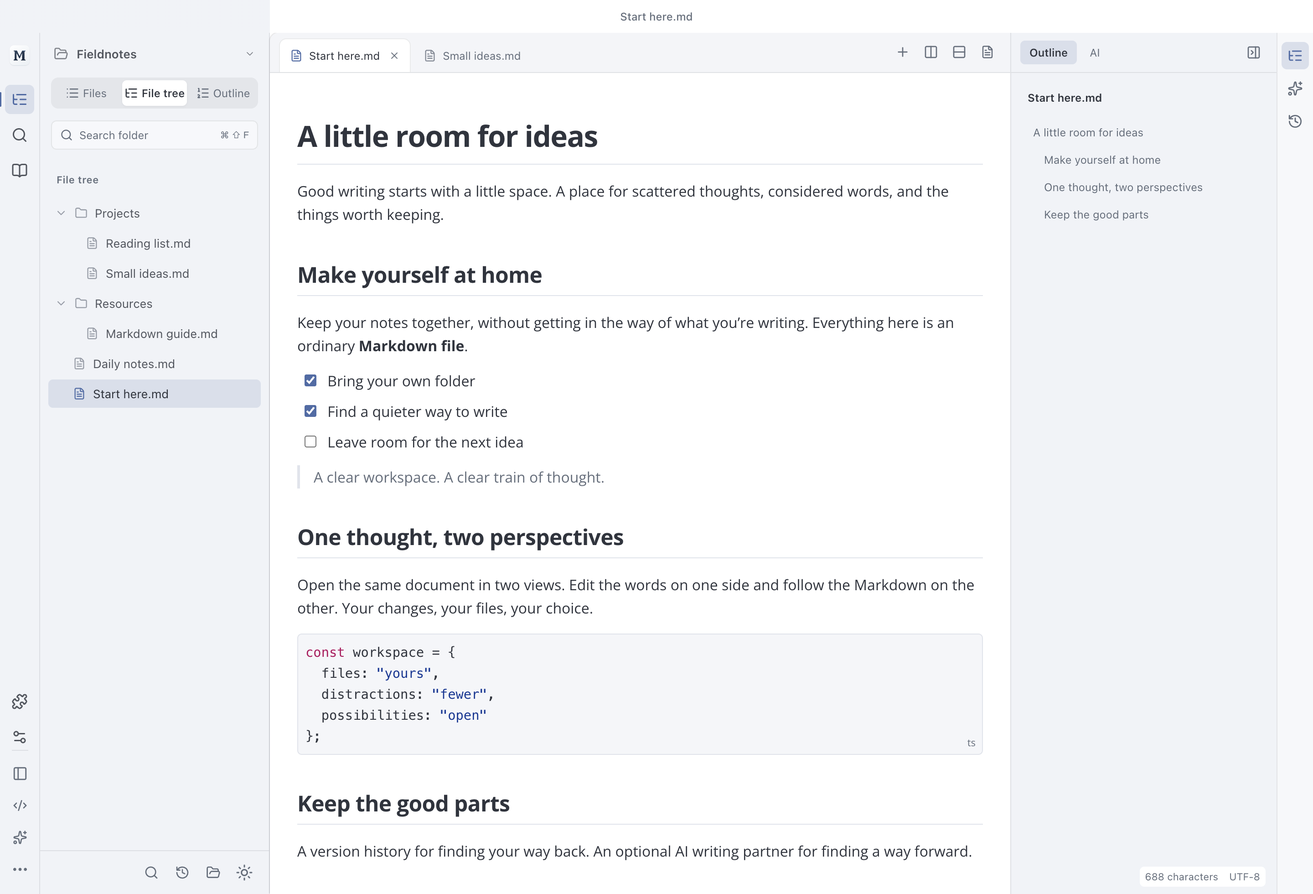
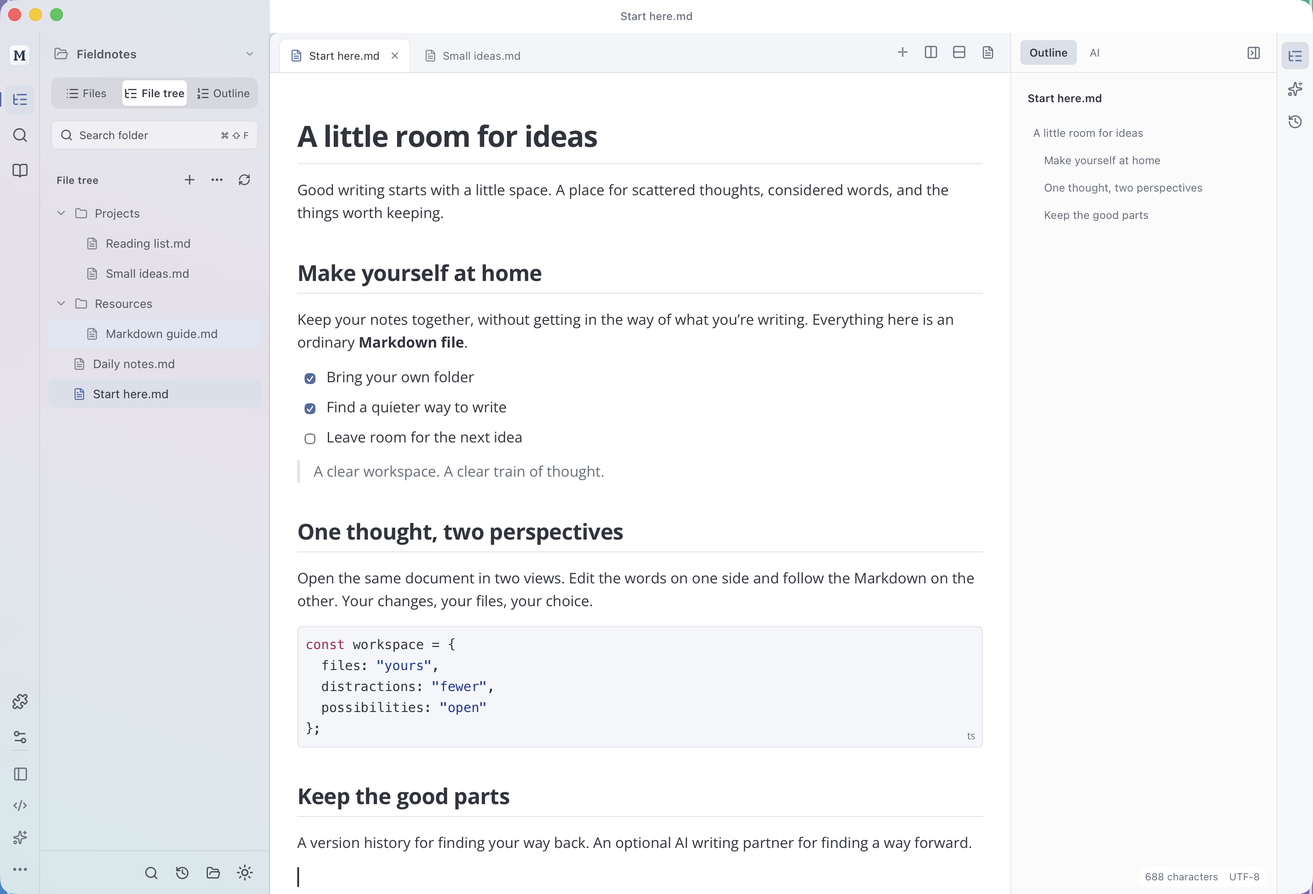
release: prepare 0.26.1 with real native glass captures [skip ci]

diff --git a/src/writingWorkspace.css b/src/writingWorkspace.css
@@ -111,7 +111,7 @@
    hides its backdrop. Keep the opaque fallback on hosts without that material. */
 :root[data-window-material=macos] { --chrome-glass:color-mix(in srgb,var(--sidebar) 24%,transparent); }
 :root[data-window-material=macos],:root[data-window-material=macos] body { background:transparent; }
-:root[data-window-material=macos] :is(.sidebar,.workspace-ribbon) { -webkit-backdrop-filter:none; backdrop-filter:none; }
+:root[data-window-material=macos] :is(.sidebar,.workspace-ribbon) { --muted:color-mix(in srgb,var(--ink) 88%,var(--sidebar)); -webkit-backdrop-filter:none; backdrop-filter:none; }
 @media(max-width:1100px) { .right-tools { width:264px; } .right-tool-rail { width:36px; padding-left:2px; padding-right:2px; } }
 @media(max-width:820px) { .writing-content.with-tools { flex-wrap:wrap; } .with-tools .editor-workspace { flex-basis:calc(100% - 36px); } .right-tools { order:3; width:100%; max-width:100%; min-width:0; height:40%; min-height:180px; border-left:0; border-top:1px solid var(--chrome-line); } .right-tool-rail { order:2; } .right-tools .ai-review-panel { flex-basis:auto; min-height:0; } .right-outline { padding-top:12px; } }
 @media(max-width:760px) {

diff --git a/design/presentation/hero.html b/design/presentation/hero.html
@@ -10,6 +10,6 @@
   <div class="brand"><img src="../icon.svg" alt="">Open Markdown Lane</div>
   <div class="platform">macOS · Windows · Linux</div>
   <section class="copy"><h1>A clearer space for your words.</h1><p>Live Markdown. Local files. Optional AI.</p></section>
-  <div class="window"><img src="../../docs/images/workspace-light.png" alt="Open Markdown Lane 0.26.0 editing an English document with the file tree, tabs and outline open."></div>
+  <div class="window"><img src="../../docs/images/workspace-light.png" alt="Open Markdown Lane 0.26.1 editing an English document with the file tree, tabs and outline open."></div>
 </main>
 </html>

diff --git a/README.md b/README.md
@@ -16,15 +16,15 @@
 >
 > If you can afford it, please **[buy Typora](https://store.typora.io/)** and support its official developers. Visit **[typora.io](https://typora.io/)** for the official product and support.
 
-![Open Markdown Lane 0.26.0 workspace](docs/images/hero.png)
+![Open Markdown Lane 0.26.1 workspace](docs/images/hero.png)
 
 [Light workspace](docs/images/workspace-light.png) · [Dark workspace](docs/images/workspace-dark.png) · [Shared document views](docs/images/shared-views.png)
 
 Open Markdown Lane is an open-source Markdown editor inspired by Typora's inline editing experience. Write directly in the rendered document, switch to source when you need it, and save ordinary `.md` files in your own folders.
 
-**Status:** early development, version **0.26.0**. Release builds support **macOS 14+ on Apple Silicon**, **Windows 10/11 x64**, and **Linux x64**. On first launch, the interface and sample notes follow the system language: Chinese locales use Simplified Chinese, and other locales use English. New profiles stay in Follow system language mode until you choose a language in Preferences → Language. A manual choice always takes precedence; existing notes and saved settings are preserved. On Linux, `LC_ALL`, `LC_MESSAGES`, then `LANG` determine the initial language. This is an independent project, unaffiliated with Typora; full feature and behavior parity is still in progress.
+**Status:** early development, version **0.26.1**. Release builds support **macOS 14+ on Apple Silicon**, **Windows 10/11 x64**, and **Linux x64**. On first launch, the interface and sample notes follow the system language: Chinese locales use Simplified Chinese, and other locales use English. New profiles stay in Follow system language mode until you choose a language in Preferences → Language. A manual choice always takes precedence; existing notes and saved settings are preserved. On Linux, `LC_ALL`, `LC_MESSAGES`, then `LANG` determine the initial language. This is an independent project, unaffiliated with Typora; full feature and behavior parity is still in progress.
 
-**0.26.0 release checks:** macOS, Windows and Linux installation tests, Everything preview, real FUSE mounts and public AppImage updates passed. [Verification record](docs/verification.md).
+**0.26.1 release checks:** local editor regressions passed; three-platform release checks are pending. [Verification record](docs/verification.md).
 
 ## Features
 
@@ -69,20 +69,20 @@ The demo keeps documents in the current tab's memory; it does not upload or pers
 
 | Platform | Installer | Alternative |
 | --- | --- | --- |
-| Windows 10/11 · x64 | **[Download Setup.exe](https://github.com/AniChikage/open-markdown-lane/releases/download/v0.26.0/Open-Markdown-Lane-0.26.0-windows-x64-Setup.exe)** | [ZIP](https://github.com/AniChikage/open-markdown-lane/releases/download/v0.26.0/Open-Markdown-Lane-0.26.0-windows-x64.zip) |
-| macOS 14+ · Apple Silicon | **[Download DMG](https://github.com/AniChikage/open-markdown-lane/releases/download/v0.26.0/Open-Markdown-Lane-0.26.0-arm64.dmg)** | [ZIP](https://github.com/AniChikage/open-markdown-lane/releases/download/v0.26.0/Open-Markdown-Lane-0.26.0-arm64.zip) |
-| Linux · x64 | **[Download DEB](https://github.com/AniChikage/open-markdown-lane/releases/download/v0.26.0/Open-Markdown-Lane-0.26.0-linux-x64.deb)** | [AppImage](https://github.com/AniChikage/open-markdown-lane/releases/download/v0.26.0/Open-Markdown-Lane-0.26.0-x86_64.AppImage) |
+| Windows 10/11 · x64 | **[Download Setup.exe](https://github.com/AniChikage/open-markdown-lane/releases/download/v0.26.1/Open-Markdown-Lane-0.26.1-windows-x64-Setup.exe)** | [ZIP](https://github.com/AniChikage/open-markdown-lane/releases/download/v0.26.1/Open-Markdown-Lane-0.26.1-windows-x64.zip) |
+| macOS 14+ · Apple Silicon | **[Download DMG](https://github.com/AniChikage/open-markdown-lane/releases/download/v0.26.1/Open-Markdown-Lane-0.26.1-arm64.dmg)** | [ZIP](https://github.com/AniChikage/open-markdown-lane/releases/download/v0.26.1/Open-Markdown-Lane-0.26.1-arm64.zip) |
+| Linux · x64 | **[Download DEB](https://github.com/AniChikage/open-markdown-lane/releases/download/v0.26.1/Open-Markdown-Lane-0.26.1-linux-x64.deb)** | [AppImage](https://github.com/AniChikage/open-markdown-lane/releases/download/v0.26.1/Open-Markdown-Lane-0.26.1-x86_64.AppImage) |
 
-[SHA-256 checksums](https://github.com/AniChikage/open-markdown-lane/releases/download/v0.26.0/SHA256SUMS.txt) · [All releases](https://github.com/AniChikage/open-markdown-lane/releases)
+[SHA-256 checksums](https://github.com/AniChikage/open-markdown-lane/releases/download/v0.26.1/SHA256SUMS.txt) · [All releases](https://github.com/AniChikage/open-markdown-lane/releases)
 
-AppImage downloads use the `Open-Markdown-Lane-VERSION-x86_64.AppImage` naming convention. From 0.24.5, they include standard stable-channel update information and a [`.zsync` control file](https://github.com/AniChikage/open-markdown-lane/releases/download/v0.26.0/Open-Markdown-Lane-0.26.0-x86_64.AppImage.zsync) for updates through AppImageUpdate. [Update instructions](docs/linux-appimage.md#updates-with-appimageupdate).
+AppImage downloads use the `Open-Markdown-Lane-VERSION-x86_64.AppImage` naming convention. From 0.24.5, they include standard stable-channel update information and a [`.zsync` control file](https://github.com/AniChikage/open-markdown-lane/releases/download/v0.26.1/Open-Markdown-Lane-0.26.1-x86_64.AppImage.zsync) for updates through AppImageUpdate. [Update instructions](docs/linux-appimage.md#updates-with-appimageupdate).
 
 ### Install on Linux
 
 Ubuntu 22.04 or a compatible x64 distribution is the tested baseline. Download the DEB and install it with:
 
 ```sh
-sudo apt install ./Open-Markdown-Lane-0.26.0-linux-x64.deb
+sudo apt install ./Open-Markdown-Lane-0.26.1-linux-x64.deb
 ```
 
 The desktop launcher and Markdown file association are included. Uninstalling with `sudo apt remove open-markdown-lane` retains your documents and recovery data.
@@ -101,7 +101,7 @@ The Windows build is currently **not code-signed**. Windows may display an unkno
 
 ### Install on macOS
 
-1. Download **[Open-Markdown-Lane-0.26.0-arm64.dmg](https://github.com/AniChikage/open-markdown-lane/releases/download/v0.26.0/Open-Markdown-Lane-0.26.0-arm64.dmg)** from [Releases](https://github.com/AniChikage/open-markdown-lane/releases/latest).
+1. Download **[Open-Markdown-Lane-0.26.1-arm64.dmg](https://github.com/AniChikage/open-markdown-lane/releases/download/v0.26.1/Open-Markdown-Lane-0.26.1-arm64.dmg)** from [Releases](https://github.com/AniChikage/open-markdown-lane/releases/latest).
 2. Open the DMG and drag **Open Markdown Lane** into **Applications**.
 3. Launch Open Markdown Lane from Applications.
 

diff --git a/docs/release-notes.md b/docs/release-notes.md
@@ -1,17 +1,13 @@
-Open Markdown Lane 0.26.0 brings a more cohesive writing workspace, with a navigation ribbon, file tree and frosted sidebars.
+Open Markdown Lane 0.26.1 fixes the macOS frosted sidebar so the native background material can show through.
 
 This is an independent, unofficial project, unaffiliated with Typora. If you can afford it, please [buy Typora](https://store.typora.io/) and support its official developers.
 
 ## Changes
 
-- A narrow left ribbon gives direct access to files, folder search, folder Q&A, plugins and preferences. The sidebar opens in file-tree view, with file-list and outline views still available.
-- Compact tabs connect to the writing surface; the right dock keeps outline and AI review together. Light and dark palettes, spacing and heading sizes are coordinated across the workspace.
-- Native macOS sidebar material blurs the content behind the window while keeping the document opaque. Windows and Linux use translucent surfaces over an opaque window background. Reduced-transparency and forced-color CSS fallbacks are included where supported.
-- Fixed plugin-dialog keyboard focus: collapsed settings could contain a textarea that reported layout geometry but refused focus. Dialogs now fall back to a visible control, and Escape closes them reliably.
-- Fixed English sidebar labels wrapping and file-tree selection backgrounds ending before the edge of the row.
-- Selecting an already-open file in the tree now activates its existing tab immediately, retaining the in-memory draft and avoiding a disk-open race with the next mode or formatting command.
-- Document themes, fonts, background images, model configuration, tab order and shared-view state keep their existing storage and behavior. Documents and settings are retained during upgrades.
-- README product images now show the current English workspace, with light, dark and shared-view captures. The previous interface video and screenshots have been retired from the project pages.
+- Replaced the nearly opaque macOS sidebar tint with a lighter translucent layer over native behind-window material. Removed redundant CSS blur on native material surfaces.
+- Native material follows the current light or dark document theme, including when the operating system uses a different appearance. Inactive windows retain the frosted treatment.
+- Kept opaque desktop fallbacks on Windows/Linux, the clear writing surface, and reduced-transparency and forced-color styles.
+- Existing documents, recovery, themes, model configuration and editor behavior retain their storage formats.
 
 ## Downloads
 
@@ -19,10 +15,10 @@ This is an independent, unofficial project, unaffiliated with Typora. If you can
 - Windows 10/11 x64: Setup.exe or ZIP.
 - Linux x64: DEB or x86_64 AppImage, plus its `.zsync` control file.
 
-The six installers and the control file are covered by `SHA256SUMS.txt`. macOS is locally signed, not notarized; Windows is unsigned. macOS may request Documents-folder access again after an update.
+The six installers and the control file are covered by `SHA256SUMS.txt`. macOS is locally signed, not notarized; Windows is unsigned.
 
 ## Validation
 
-265 local unit tests passed, together with workspace, shared-view, composition, undo/redo, theme, background, context-menu, community-plugin and AI-review regressions. The native WebKit suite passed 163 editor checks and actual PDF/HTML export checks.
+Production build, strict checks and 265 unit tests passed, together with workspace, shared-view, native window/store and native WebKit shared-view regressions. These cover Chinese composition, exact saves, cross-pane undo/redo and real process restart. Physical IME candidate-window acceptance was not repeated.
 
-Publication is gated by macOS native tests, installed Windows/Linux acceptance, Everything preview and real FUSE mounts on Ubuntu 22.04/24.04. The public AppImageUpdate check runs after publication. See [the verification record](https://github.com/AniChikage/open-markdown-lane/blob/main/docs/verification.md) for the completed release gates and installed-app checks. Physical IME candidate-window acceptance was not repeated for this visual refresh; automated composition and exact undo tests were repeated.
+The macOS visual check uses an owned patterned window behind the real editor and a consented display-compositor capture restricted to that editor's rectangle. Window-only snapshots are not counted as evidence of behind-window translucency. Publication is gated by the existing three-platform installation tests, Everything preview and real Ubuntu 22.04/24.04 FUSE mounts; public AppImageUpdate is checked after publication. See [the verification record](https://github.com/AniChikage/open-markdown-lane/blob/main/docs/verification.md) for the final scope and results.

diff --git a/docs/linux-appimage.md b/docs/linux-appimage.md
@@ -1,10 +1,10 @@
 # Running the Linux AppImage
 
-Use the x64 AppImage from the [0.26.0 release](https://github.com/AniChikage/open-markdown-lane/releases/tag/v0.26.0) and verify its SHA-256 checksum. Make it executable, then run it as your ordinary user. The DEB is the recommended Ubuntu installation, with desktop and file associations included.
+Use the x64 AppImage from the [0.26.1 release](https://github.com/AniChikage/open-markdown-lane/releases/tag/v0.26.1) and verify its SHA-256 checksum. Make it executable, then run it as your ordinary user. The DEB is the recommended Ubuntu installation, with desktop and file associations included.
 
 ```sh
-chmod +x Open-Markdown-Lane-0.26.0-x86_64.AppImage
-./Open-Markdown-Lane-0.26.0-x86_64.AppImage
+chmod +x Open-Markdown-Lane-0.26.1-x86_64.AppImage
+./Open-Markdown-Lane-0.26.1-x86_64.AppImage
 ```
 
 ## Updates with AppImageUpdate
@@ -14,8 +14,8 @@ Starting with 0.24.5, the AppImage embeds the standard GitHub Releases update ch
 Use the upstream [AppImageUpdate tools](https://github.com/AppImageCommunity/AppImageUpdate/releases) to check and install an update. With `appimageupdatetool` on your PATH:
 
 ```sh
-appimageupdatetool --check-for-update ./Open-Markdown-Lane-0.26.0-x86_64.AppImage
-appimageupdatetool --remove-old ./Open-Markdown-Lane-0.26.0-x86_64.AppImage
+appimageupdatetool --check-for-update ./Open-Markdown-Lane-0.26.1-x86_64.AppImage
+appimageupdatetool --remove-old ./Open-Markdown-Lane-0.26.1-x86_64.AppImage
 ```
 
 `--remove-old` removes the prior AppImage after the updater verifies the new file. Documents, recovery data and settings remain in their existing data directories. The embedded `latest` channel follows stable GitHub releases; AppImageUpdate discovers the matching x86_64 `.zsync` asset and reuses unchanged data blocks. Standard update discovery starts with 0.24.5; older downloads need a manual first upgrade.
@@ -35,7 +35,7 @@ sudo apt install libfuse2
 sudo apt install libfuse2t64
 ```
 
-To inspect a real mount, run `./Open-Markdown-Lane-0.26.0-x86_64.AppImage --appimage-mount`. While it remains running, inspect the printed directory with `findmnt --target /printed/mountpoint`. Its filesystem type should start with `fuse`. Press Ctrl+C to unmount. This is different from `--appimage-extract`.
+To inspect a real mount, run `./Open-Markdown-Lane-0.26.1-x86_64.AppImage --appimage-mount`. While it remains running, inspect the printed directory with `findmnt --target /printed/mountpoint`. Its filesystem type should start with `fuse`. Press Ctrl+C to unmount. This is different from `--appimage-extract`.
 
 ## Ubuntu's user namespace restriction
 
@@ -48,7 +48,7 @@ Save this as `/etc/apparmor.d/open-markdown-lane-appimage`, replacing the exampl
 ```text
 abi <abi/4.0>,
 include <tunables/global>
-profile open-markdown-lane-appimage "/absolute/path/Open-Markdown-Lane-0.26.0-x86_64.AppImage" flags=(unconfined) {
+profile open-markdown-lane-appimage "/absolute/path/Open-Markdown-Lane-0.26.1-x86_64.AppImage" flags=(unconfined) {
   userns,
 }
 ```

diff --git a/docs/feature-parity.md b/docs/feature-parity.md
@@ -1,6 +1,6 @@
 # Typora 功能对齐清单
 
-当前版本：**0.26.0，macOS arm64 / Windows x64 / Linux x64**。基准为本机 Typora 1.14.10 的菜单、实际交互和官方公开文档。功能存在、自动化通过与完整等价是不同结论；未验证的组合不写成已对齐。当前发布及 GitHub 问题回归范围见[版本化验收记录](verification.md)。
+当前版本：**0.26.1，macOS arm64 / Windows x64 / Linux x64**。基准为本机 Typora 1.14.10 的菜单、实际交互和官方公开文档。功能存在、自动化通过与完整等价是不同结论；未验证的组合不写成已对齐。当前发布及 GitHub 问题回归范围见[版本化验收记录](verification.md)。
 
 公开依据：[Markdown](https://support.typora.io/Markdown-Reference/)、[文件管理](https://support.typora.io/File-Management/)、[图片](https://support.typora.io/Images/)、[导出](https://support.typora.io/Export/)、[HTML](https://support.typora.io/HTML/)、[快捷键](https://support.typora.io/Shortcut-Keys/)。REA 的静态证据及覆盖边界见 [research.md](research.md)。
 
@@ -46,7 +46,7 @@
 | 安装更新与旧版本清理 | 已实现并回归 | M 图标保留；验证新包后替换安装版并删除临时回滚包；只保留当前版本归档。用户文档/草稿不属于版本清理对象 |
 | Windows、其他平台与签名 | 部分交付 | Windows x64 提供 NSIS EXE / ZIP，安装验收覆盖编辑、保存、PDF、图片、恢复、单实例与文件关联；Windows 实体候选交互未人工验收。Linux x64 提供 DEB / AppImage，验证安装/卸载、恢复数据、编辑、PDF、插件、背景和第二实例；0.17.4 增加 Ubuntu 22.04 / 24.04 完整 VM 的真实 FUSE 挂载、普通用户启动、沙箱状态、保存/撤销及退出卸载，24.04 使用应用级 userns 规则且保留全局限制，详见 [AppImage 指南](linux-appimage.md)。不同桌面环境未穷尽。Windows/Linux ARM / Intel Mac 未交付；Windows 无代码签名证书，macOS 未公证 |
 
-剩余项为其他输入法及列表/表格/局部代码的完整候选组合、未覆盖的跨应用剪贴板/复杂跨块编辑、第三方主题与图形扩展，以及 Windows 实体输入法，Intel Mac / ARM 等其他平台发布。复杂转换覆盖已列样本和目标格式，无法代表任意格式无损往返。**0.26.0 仍不能标为 Typora 全功能完全等价**；外部图床真实上传仍需独立配置与验收。
+剩余项为其他输入法及列表/表格/局部代码的完整候选组合、未覆盖的跨应用剪贴板/复杂跨块编辑、第三方主题与图形扩展，以及 Windows 实体输入法，Intel Mac / ARM 等其他平台发布。复杂转换覆盖已列样本和目标格式，无法代表任意格式无损往返。**0.26.1 仍不能标为 Typora 全功能完全等价**；外部图床真实上传仍需独立配置与验收。
 
 ## 版本记录
 

diff --git a/docs/test-plan.md b/docs/test-plan.md
@@ -1,19 +1,19 @@
 # 现有功能测试清单
 
-当前迭代：**0.26.0**。下方既有矩阵最初审计于 0.22.0；实际执行结果按版本保存在[验收记录](verification.md)，不把历史覆盖自动当成本轮已通过。命名字面量正则替换问题已有修复和回归。
+当前迭代：**0.26.1**。下方既有矩阵最初审计于 0.22.0；实际执行结果按版本保存在[验收记录](verification.md)，不把历史覆盖自动当成本轮已通过。命名字面量正则替换问题已有修复和回归。
 
 日期：2026-11-03。清单覆盖 24 个模块、152 条功能用例，附共享命令表中的全部 128 个菜单命令。每条列出操作、期望和执行入口；这是可维护的测试设计与执行索引，登记不等于已通过，更不代表所有平台、插件、文件与输入法组合已穷尽。
 
 本机环境：macOS 26.5.2 / arm64、Node 26.7.0、Electron 44.7.2、实际 WKWebView；网页补测使用独立无头 Chrome 156、1280×900 和 400×850。Browser plugin not available，使用项目 Playwright 套件。Pandoc、LibreOffice 与 bundled pypdf 用于实际转换及 PDF 内容核验。桌面测试使用隔离资料，不发送用户文档或修改用户模型配置。
 
-## 0.26.0 工作区与发行
+## 0.26.1 工作区与发行
 
 | 场景 | 验收要求 | 执行入口 |
 | --- | --- | --- |
 | 导航和排版 | 文件树／文件／大纲、图标栏与右侧工具正确切换；窄窗口无横向溢出，明暗配色及背景设置保留 | `test:workspace`、`tests/typography-desktop.mts` |
 | 插件弹窗焦点 | 跳过不可见控件；聚焦被拒绝时选择可见后备控件；Esc 关闭并恢复编辑焦点 | `test:workspace`、原生 WebKit |
 | 文件树激活 | 点击已打开文件后立即作用于该标签；保留正文、模式与撤销，不异步重新加载磁盘 | 未放宽的桌面基线、工作区用例 |
-| 侧栏材质 | macOS 原生材质容器下缩放、标题栏拖动和系统按钮区域正常；Windows/Linux 不宣称窗口背后模糊 | 原生窗口测试、平台载荷工作区回归 |
+| 侧栏材质 | macOS 原生材质容器下缩放、标题栏拖动和系统按钮区域正常；实际屏幕合成核对透色和细条纹模糊，明暗材质随主题同步；Windows/Linux 保留实底后备 | 原生窗口测试、平台载荷工作区回归、隔离原生合成截图 |
 | 公开交付 | 三平台安装回归、Everything、真实 FUSE、公开更新通道；所有包及 zsync 与公开摘要一致 | 正式发行流水线、公开下载校验 |
 | 安装和清理 | 正常退出后替换原签名应用；重启恢复、跨窗格撤销／重做、精确保存；比较原资料与设置，验证新包后清理指定旧 Release | 本机隔离夹具、升级指纹、限定清理门禁 |
 

diff --git a/docs/verification.md b/docs/verification.md
@@ -1,10 +1,11 @@
-# 待发布：原生磨砂半透明修正
+# 0.26.1 原生磨砂半透明（发行准备）
 
 0.26.0 的系统材质上叠加了 82% 不透明的 CSS 底色，视觉上接近实色。候选修正改用窗口背后材质，将支持原生材质的 macOS 宿主底色降至 24%，去掉重复 CSS 模糊；系统材质明暗随当前文档主题切换，窗口失焦后仍保持材质。Windows／Linux 和无宿主网页保留原有不透明后备，不将 CSS 透明冒充桌面模糊。
 
 - 生产构建、严格类型检查、265 项单元测试通过；Electron 工作区七组、同文档双视图九组、原生存储／窗口回归和原生 WebKit 双视图专项通过。中文组合输入、对侧撤销／重做及精确恢复已回归，实体候选窗未重新人工验收。
-- 独立原生夹具包含真实编辑器和自有彩色背景窗口；明暗文字、原生外观同步已核对。界面工具的单窗口截图未包含窗口背后的画面，不能据此声称完成透光验收；屏幕合成截图正等待用户授权，不修改系统屏幕录制权限。
-- 此候选尚未发布或替换正式安装版；原文档、偏好和模型配置未改动。完成实际透光核对后再更新安装包及展示图。
+- 独立原生夹具包含真实编辑器和自有彩色细条纹背景窗口；明暗文字、原生外观同步已核对。经用户授权，使用屏幕合成截图验证后方色彩透入、细条纹被模糊，正文仍为实底；只捕获自有测试窗口矩形，不修改屏幕录制权限。单窗口快照不计为透光证据；实际捕获前检查遮挡，避免截入其他应用。
+- 实际 Electron IPC 验证系统材质跟随两次明暗切换、非法外观请求被拒绝；页面模拟「减少透明度」和强制颜色时侧栏回退到实底，660／780／1024／1440 像素窗口无横向溢出。没有修改系统辅助设置。三张 2880 × 1960 原生合成产品图已更新，空白侧栏区域可见背景色彩变化，正文实底与内容保留。
+- 此候选尚未发布或替换正式安装版；原文档、偏好和模型配置未改动。三平台发行门禁通过后更新正式安装包。
 
 ---
 

diff --git a/design/brand.md b/design/brand.md
@@ -7,7 +7,7 @@
 - 1024 方形画布，底座四周留 64 单位；标记居中，以实际 16/32/64/128 像素检查识别度。
 - 应用图标和“关于”窗口共用这份源文件。`scripts/icon.mts` 生成 PNG、Windows ICO 与 macOS ICNS，不再单独绘制一份标记。
 
-README 展示图由 `presentation/hero.html` 排版，使用 `docs/images/workspace-light.png` 的完整实机界面截图，不重绘、翻译或裁去应用控件。浅色、深色与同文档双视图截图均来自 0.26.0 的隔离桌面验收配置，内容为自有英文示例，不包含用户文档、路径、密钥或配置。截图展示共享前端在 macOS Electron 验收宿主中的实际界面；原生版的背景材质由 AppKit 提供，透明度会随系统设置与窗口背后的内容改变。
+README 展示图由 `presentation/hero.html` 排版，使用 `docs/images/workspace-light.png` 的完整实机界面截图，不重绘、翻译或裁去应用控件。浅色、深色与同文档双视图截图均来自 0.26.1 的独立 AppKit/WebKit 验收窗口，内容为自有英文示例，不包含用户文档、路径、密钥或配置。窗口背后放置自有彩色细条纹测试窗口，以实际 macOS 屏幕合成画面展示磨砂透色；这是原生材质的真实表现，色彩随窗口背后的内容改变。Windows/Linux 使用实底后备，不提供相同的桌面透光效果。
 
 三张原始界面图均为实际 2 倍像素截图（2880 × 1960），展示图排版输出为 1800 × 1400，避免将低分辨率截图放大。产品图统一使用英文，中英文 README 共用 `docs/images/hero.png`。应用本身支持英文、简体中文及跟随系统语言。
 

diff --git a/docs/workspace.md b/docs/workspace.md
@@ -8,7 +8,7 @@ These desktop features use ordinary local Markdown files. AI remains optional: c
 
 The left ribbon gives direct access to the file tree, folder search, folder Q&A, plugins and preferences. The file sidebar opens in tree view; use its view switcher for open files or the document outline. The right dock holds the outline and AI review. Tabs, split panes and document typography keep their existing behavior and settings.
 
-Sidebar surfaces use a restrained frosted treatment. The native macOS app uses AppKit sidebar material with behind-window blur; the Electron macOS host uses system vibrancy. Windows and Linux use translucent CSS surfaces over an opaque window background, not desktop blur. Reduced-transparency and forced-color preferences remove CSS blur where the renderer supports those media queries. Custom document themes, fonts and background images remain independent of the workspace layout.
+Sidebar surfaces use a restrained frosted treatment. The native macOS app uses AppKit behind-window material with a light translucent tint, synchronized to the document theme; the Electron macOS host uses system vibrancy. Windows and Linux use translucent CSS surfaces over an opaque window background, not desktop blur. Reduced-transparency and forced-color preferences remove CSS blur where the renderer supports those media queries. Custom document themes, fonts and background images remain independent of the workspace layout.
 
 ## Two views of one document and background tabs
 
